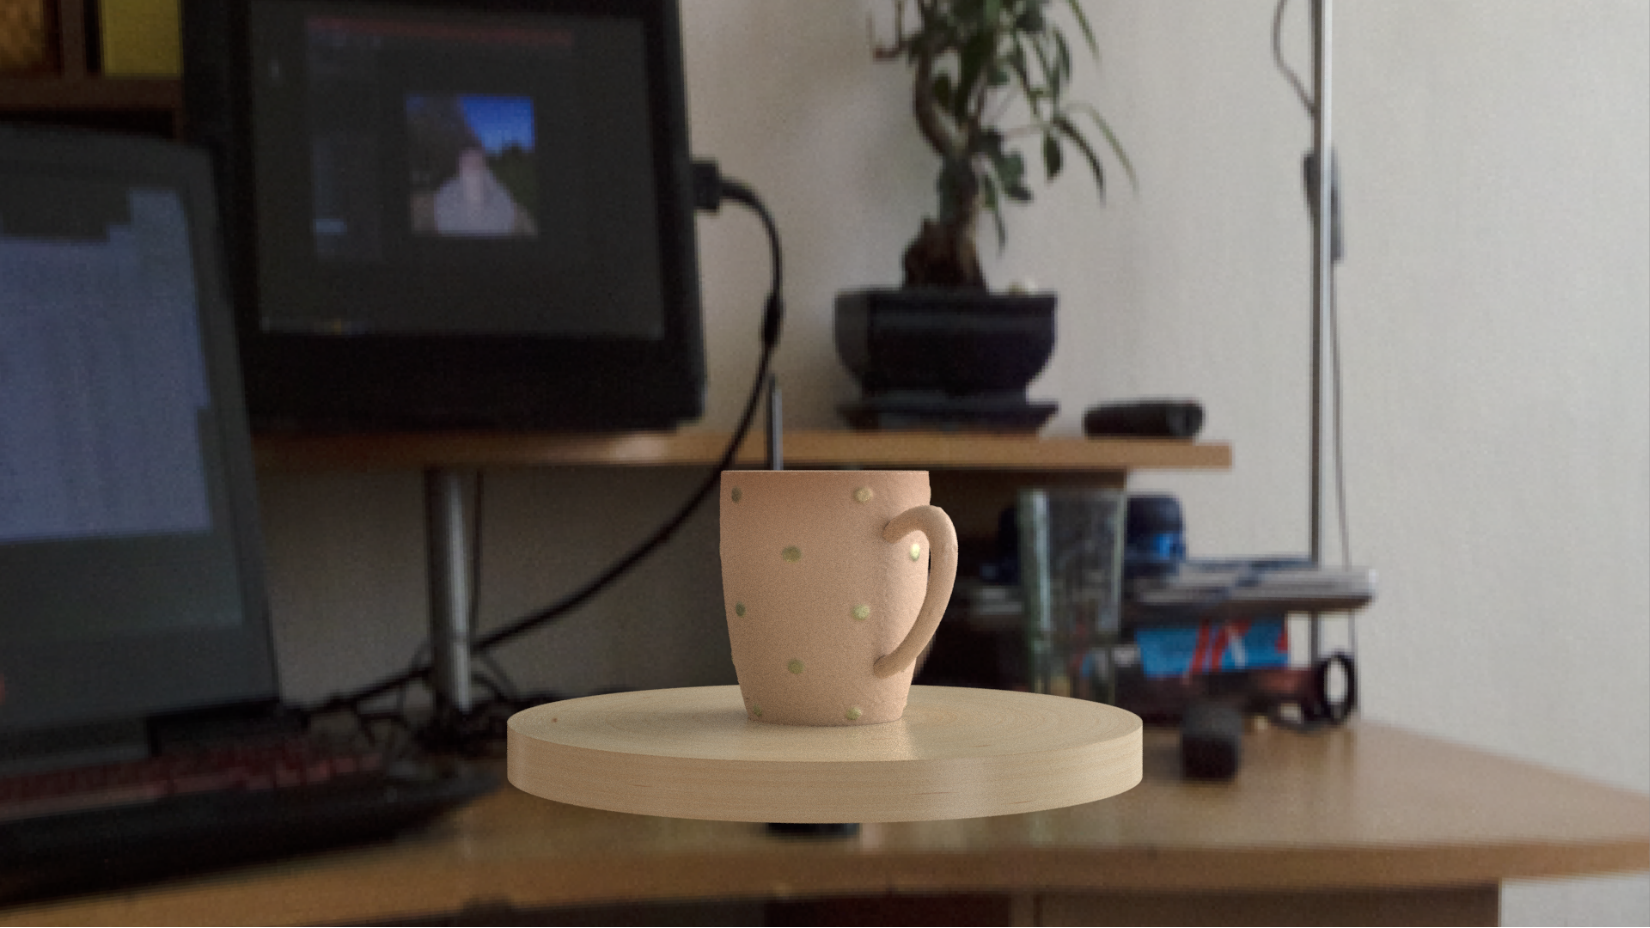
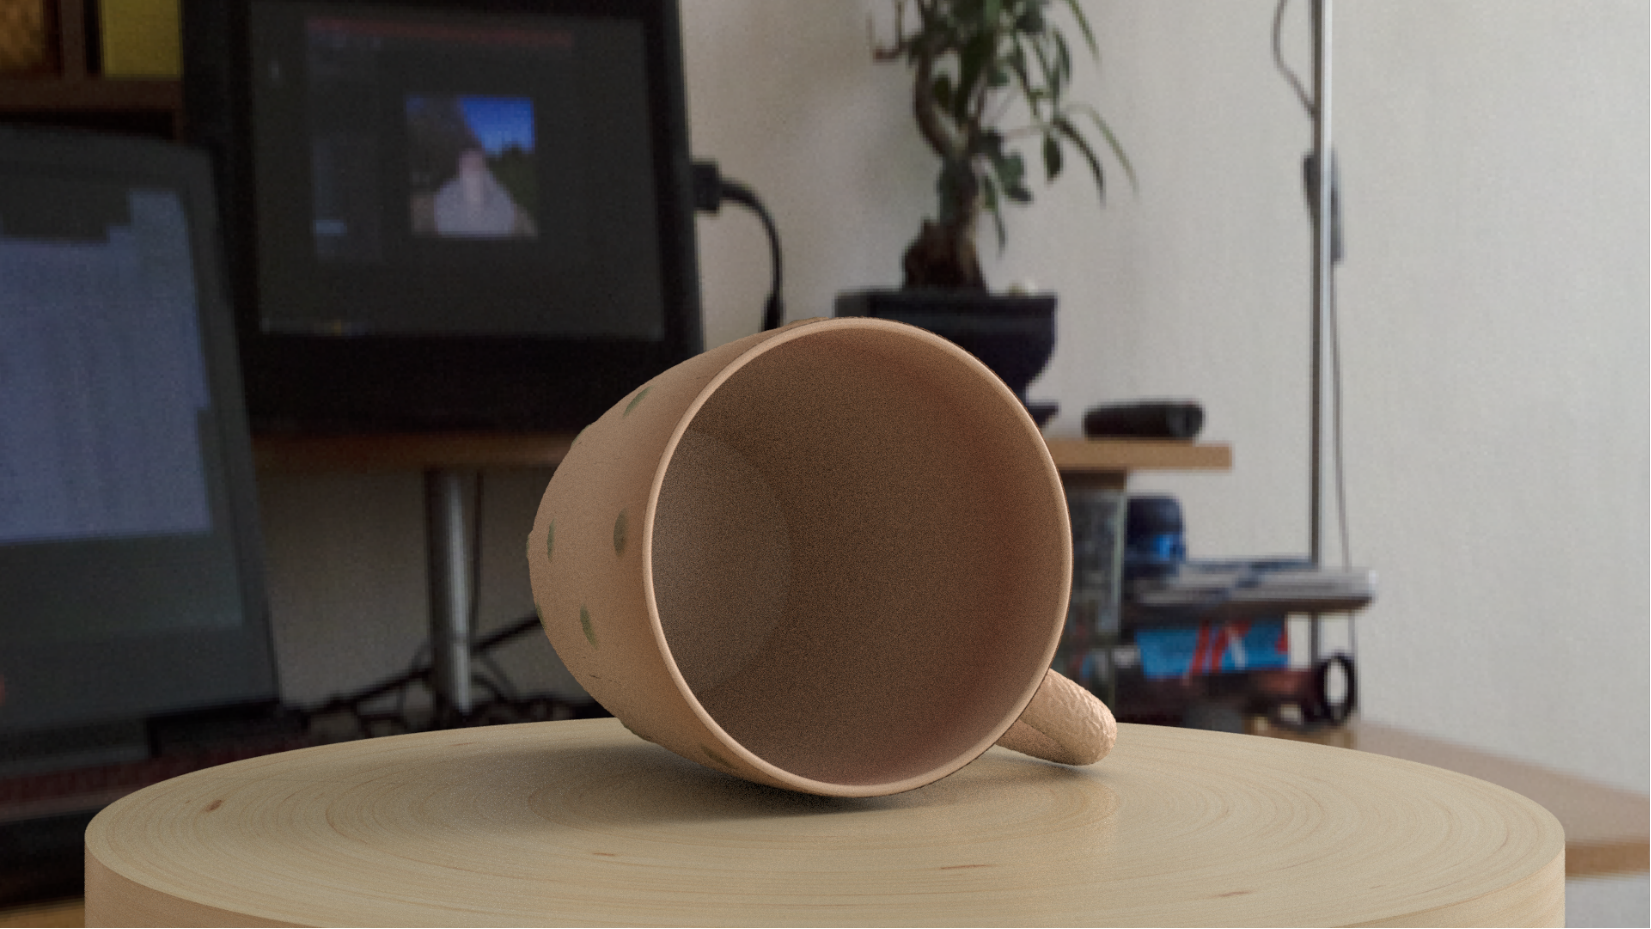
read me, cover shader

Changed region(s): [[0.0309, 0.3438, 0.9582, 1.0], [0.8036, 0.7188, 0.8345, 0.75]]

diff --git a/myCup.py b/myCup.py
@@ -14,7 +14,7 @@ ri.ArchiveRecord(ri.COMMENT, "Created by " + getpass.getuser())
 ri.ArchiveRecord(ri.COMMENT, "Creation Date: " +time.ctime(time.time()))
 
 # now we add the display element using the usual elements
-ri.Display("MyCup.png", "it", "rgb")
+ri.Display("MyCupRender1.png", "file", "rgb")
 ri.Format(1920,1080,1)
 ri.Hider('raytrace' ,{'int incremental' :[1],'string pixelfiltermode' : 'importance'})
 ri.ShadingRate(10)
@@ -39,7 +39,7 @@ def cupBody(scalex, scaley, scalez, spherex, spherey, spherez, clip):
 ri.WorldBegin()
 
 ri.TransformBegin()
-ri.Translate(0,-1,40)
+ri.Translate(0,1,18)
 ri.Rotate(-170,0,1,0)
 
 #######################################################################
@@ -62,10 +62,12 @@ ri.TransformEnd()
 # end lighting
 #######################################################################
 ri.TransformBegin()
-ri.Translate(0,-1.8,0)
-ri.Rotate(-35,0,1,0)
-ri.Rotate(87,1,0,0)
-ri.Rotate(-8.5,0,1,0)
+
+##transform to lay the cup
+#ri.Translate(0,-1.8,0)
+#ri.Rotate(-35,0,1,0)
+#ri.Rotate(87,1,0,0)
+#ri.Rotate(-8.5,0,1,0)
 
 ri.AttributeBegin()
 #outter body
@@ -96,7 +98,7 @@ ri.Bxdf ("PxrDisney", "forTheCupOutter", {"reference color baseColor" : ["pinkSh
 ri.TransformBegin()
 ri.Translate(0 ,0.8,0)
 ri.Rotate(90,1,0,0)
-ri.Torus(1.93,0.05,0,360,360)
+ri.Torus(1.93,0.048,0,360,360)
 ri.TransformEnd()
 #outter bottom
 DiscRadius = 1.42
@@ -116,23 +118,26 @@ ri.Disk(0,1,360)
 ri.TransformEnd()
 ri.AttributeEnd()
 
-#holder
-ri.AttributeBegin()
-ri.Attribute ("displacementbound", {"sphere" : [1], "coordinatesystem" : ["object"]})
-ri.Pattern ("dispDots", "diskTx")
-ri.Displace ("PxrDisplace", "mydisp", {"float dispAmount" : [0.015], 
-    "reference float dispScalar" : ["diskTx:resultD"]})
-ri.Pattern ("planePink", "pinkShader", {})
-ri.Bxdf ("PxrDisney", "forTheCupOutter", {"reference color baseColor" : ["pinkShader:resultRGB"]})
+#the handle
+
 ri.TransformBegin()
+ri.AttributeBegin()
+
 ri.Rotate(40,0,1,0)
 ri.Translate(-2.12 ,-1.4,0)
 ri.Rotate(81,0,0,1)
 ri.Skew(28.0, 0.0, 1.0, 0.0, 1.0, 0.0, 0.0)
 ri.Scale(1,1.2,1.5)
+ri.Attribute ("displacementbound", {"sphere" : [1], "coordinatesystem" : ["object"]})
+ri.Pattern ("dispHandle", "diskTx")
+ri.Displace ("PxrDisplace", "mydisp", {"float dispAmount" : [0.03], 
+    "reference float dispScalar" : ["diskTx:resultD"]})
+ri.Pattern ("planePink", "pinkShader", {})
+ri.Bxdf ("PxrDisney", "forTheCupOutter", {"reference color baseColor" : ["pinkShader:resultRGB"]})
 ri.Torus(1.1,0.18,0,360,210)
-ri.TransformEnd()
 ri.AttributeEnd()
+ri.TransformEnd()
+
 
 ri.TransformEnd()
 

diff --git a/README.md b/README.md
@@ -1,12 +1,21 @@
 # Renderman Project
 This is a project created in python using Renderman API.
-![](SupportingImages\MyCup.png) 
-![](SupportingImages\MyCup2.png)
+
+![](SupportingImages//MyCup.PNG)
+<em><span style="color:grey">This is only reference image. For full HD image check MyCupRender1 images.</span></em>
+
+![](SupportingImages//MyCup2.PNG)
+<em><span style="color:grey">This is only reference image. For full HD image check MyCupRender2 images.</span></em>
+
+=======
+![](SupportingImages//MyCup.png) 
+![](SupportingImages//MyCup2.png)
+
 The cup is modelled from the real-life reference: 
-![](SupportingImages\cupreference.PNG)
+![](SupportingImages//cupreference.PNG)
 
 The model is placed to the scene with the self created HDRI map:
-![](SupportingImages\hdriprev.PNG)
+![](SupportingImages//hdriprev.PNG)
 
 ##Installation
 To run the project its necessary to have Renderman and Python 2.7 or 3.7 installed. Run the project with command 
